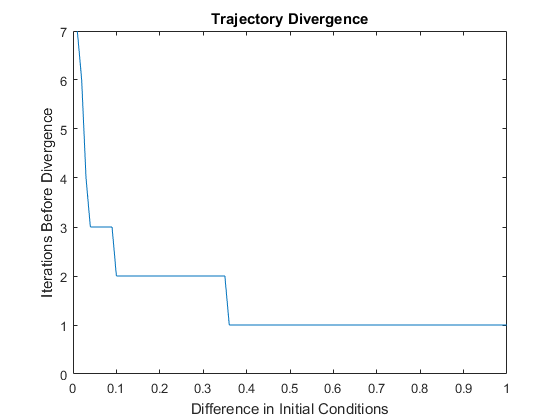
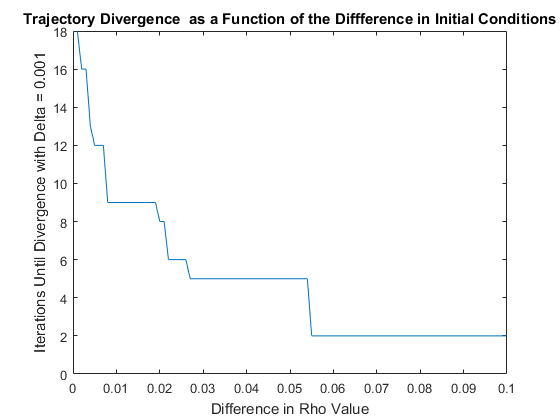
Updated figures in part two with a smaller, more interesting delta

diff --git a/fig2ab.m b/fig2ab.m
@@ -2,14 +2,18 @@ rho = 1.29;
 gamma = 0.3;
 x0 = rand;
 y0 = rand;
-delta = .01;
+delta = .001;
 max =1;
 
 [xpoints,ypoints] = dymap2d(rho,gamma,x0,y0,50);
 [xpoints2,ypoints2] = dymap2d(rho,gamma,x0+delta,y0,50);
 
-plot(xpoints);
-plot(xpoints2,'--m');
+plot(xpoints,'-s','MarkerFaceColor','b','MarkerSize',2);
+hold on
+plot(xpoints2,'--sm','MarkerFaceColor','m','MarkerSize',2);
+title('Time Series with Slightly Varied Initial Conditions');
+xlabel('t','FontSize', 14);
+ylabel('x values','FontSize', 14);
 
 divTimes = zeros(100,2);
 threshold = 0.1;
@@ -18,9 +22,12 @@ t = 200;
 for i=1:100
     divTimes(i,1) = delta;
     divTimes(i,2) = dymapdiff(rho,gamma,x0,y0,t, delta, threshold);
-    delta = delta + 0.01;
+    delta = delta + 0.001;
 end
 
 figure;
 plot(divTimes(:,1),divTimes(:,2));
 axis([0 inf 0 inf]);
+title('Trajectory Divergence  as a Function of the Diffference in Initial Conditions');
+xlabel('Difference in Rho Value','FontSize', 11);
+ylabel('Iterations Until Divergence with Delta = 0.001','FontSize', 11);

diff --git a/dymap2d.m b/dymap2d.m
@@ -8,18 +8,18 @@ for i=1:size(xpoints,2)
     xpoints(i+1) = (rho-(xpoints(i)^2)) + (gamma*ypoints(i));
 end
 
-plot(xpoints)
-xlabel('t')
-ylabel('x_t Values')
-yyaxis right
-plot(ypoints,'--m')
-ylabel('y_t Values')
+% plot(xpoints)
+% xlabel('t')
+% ylabel('x_t Values')
+% yyaxis right
+% plot(ypoints,'--m')
+% ylabel('y_t Values')
 
-figure;
-plot(xpoints,ypoints,'.')
-title('Attractors')
-xlabel('xpoints')
-ylabel('ypoints')
+% figure;
+% quiver(xpoints,ypoints,gradient(xpoints),gradient(ypoints))
+% title('Attractors')
+% xlabel('xpoints')
+% ylabel('ypoints')
 
     
 
